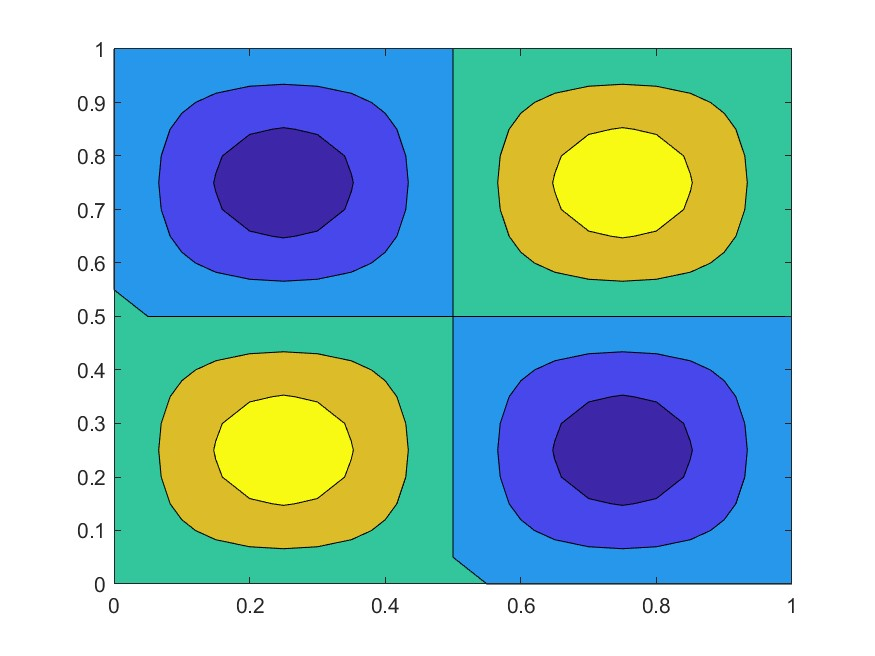
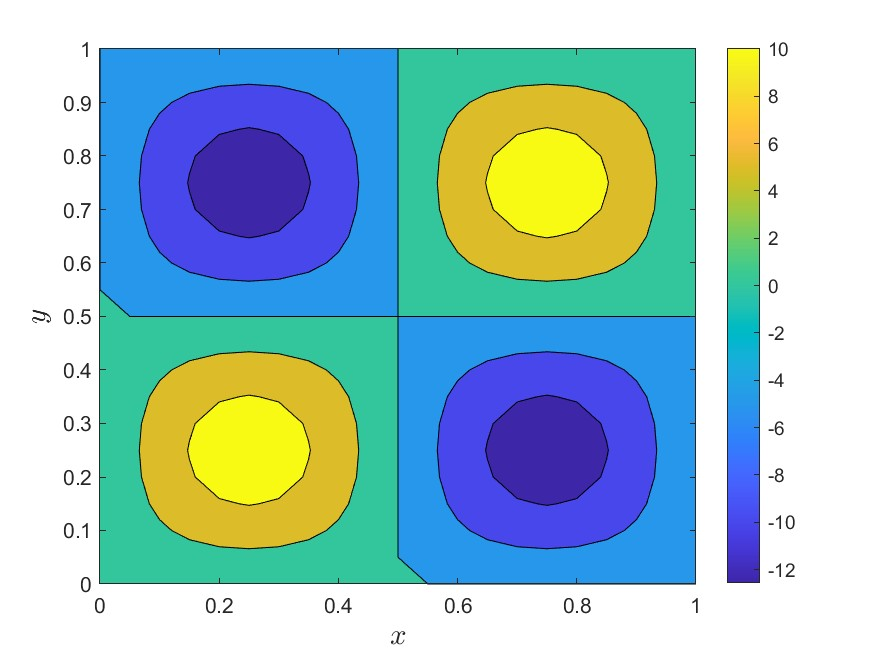
Add color bar to contour plot

diff --git a/scripts/plots_p1.m b/scripts/plots_p1.m
@@ -30,5 +30,8 @@ rotVect = (4*pi/L)*sin(2*pi*X/L).*sin(2*pi*Y/L);
 
 % Gráfica del vector de rotación como un campo escalar
 contourf(X, Y, rotVect)
+xlabel('$x$', 'Interpreter','latex', 'FontSize', 14)
+ylabel('$y$', 'Interpreter', 'latex', 'FontSize', 14)
+colorbar
 colormap parula
 saveas(gcf, "\\wsl.localhost\Ubuntu\home\marcoslm\Projects\University\2024-2\dmd\Tareas\T1\img\vector-rotacion", 'jpg')
